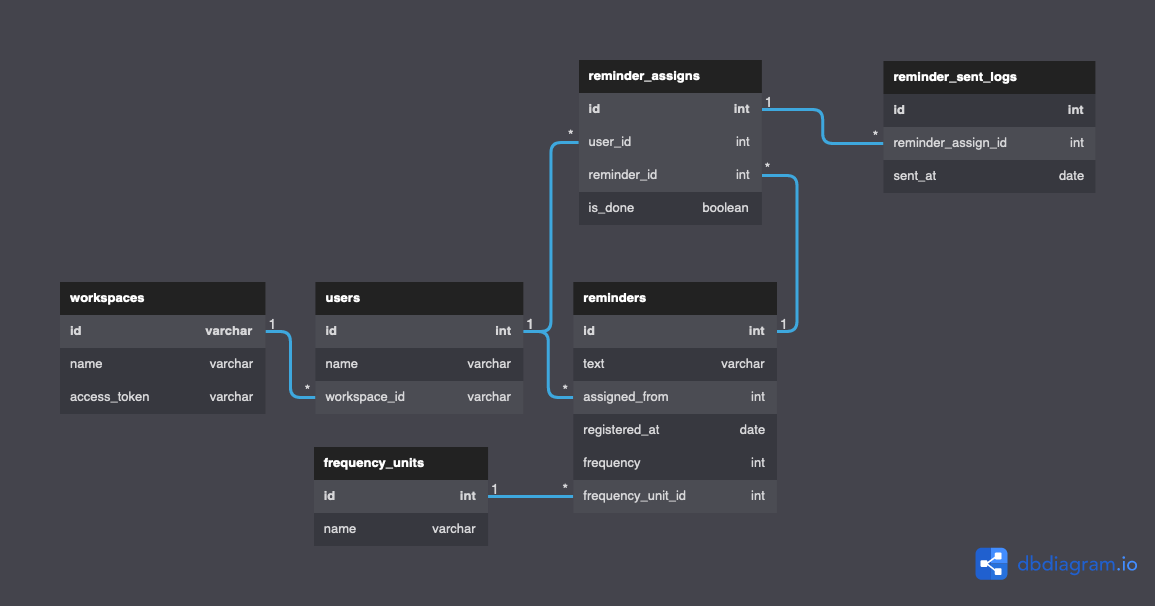
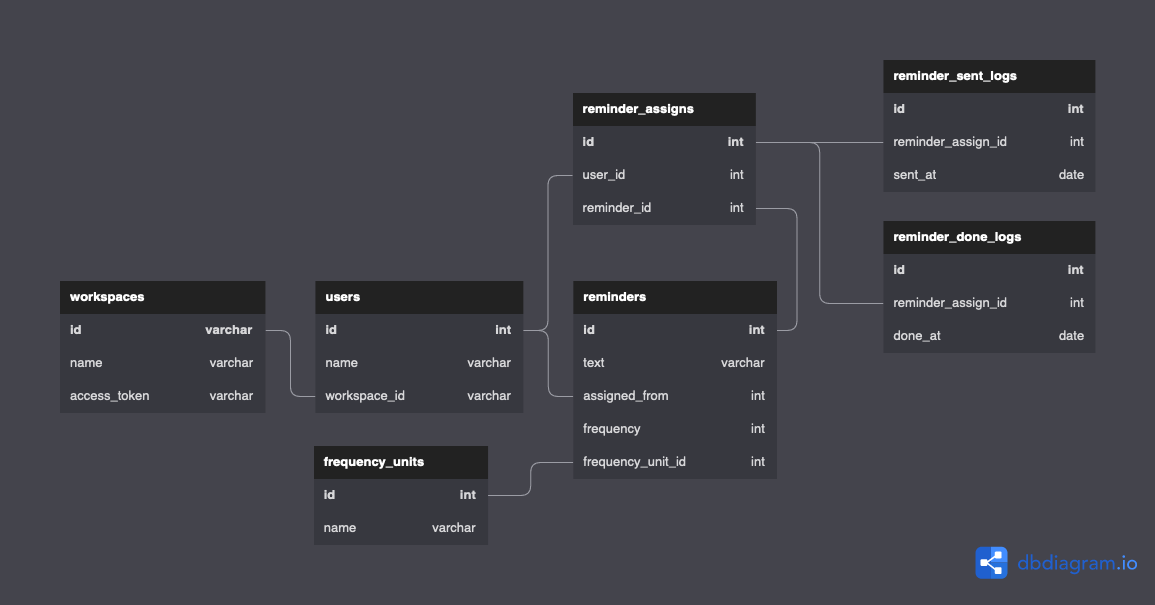
DBモデリング04の解答を修正

diff --git a/01_Questions/01_DB/04_Modeling4/README.md b/01_Questions/01_DB/04_Modeling4/README.md
@@ -2,6 +2,52 @@
 
 ![Q1_ER図](./erd.png)
 
+```
+Table workspaces {
+  id varchar [pk]
+  name varchar
+  access_token varchar
+}
+
+Table users {
+  id   int [pk]
+  name varchar
+  workspace_id varchar  [ref: > workspaces.id]
+}
+
+Table frequency_units {
+  id int [pk]
+  name varchar
+}
+
+Table reminders {
+  id   int [pk]
+  text varchar
+  assigned_from int [ref: > users.id]
+  frequency int
+  frequency_unit_id int [ref: > frequency_units.id]
+}
+
+Table reminder_assigns {
+  id int [pk]
+  user_id int [ref: > users.id]
+  reminder_id int [ref: > reminders.id]
+}
+
+Table reminder_sent_logs {
+  id int [pk]
+  reminder_assign_id int [ref: > reminder_assigns.id]
+  sent_at date
+}
+
+Table reminder_done_logs {
+  id int [pk]
+  reminder_assign_id int [ref: > reminder_assigns.id]
+  done_at date
+}
+```
+
+
 ## 考えたこと
 - 送信頻度をどのように持たせるか？
   - 当初はremindersテーブルにregistered_at(リマインダー登録日時; date)とdays(日; int)を持たせようとした。
